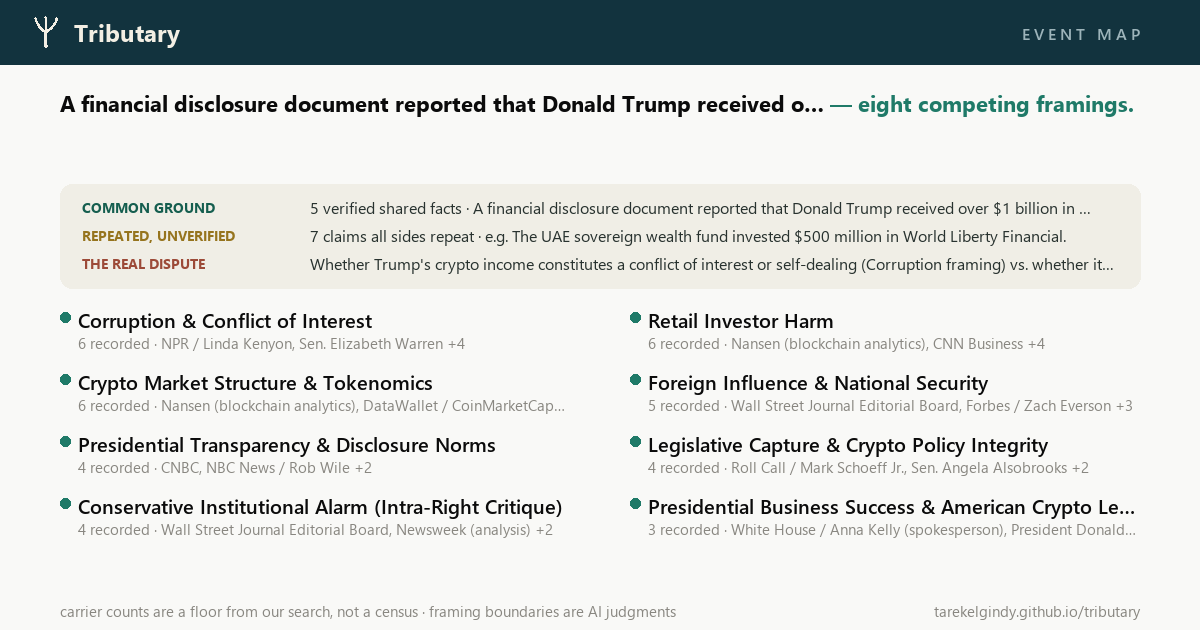
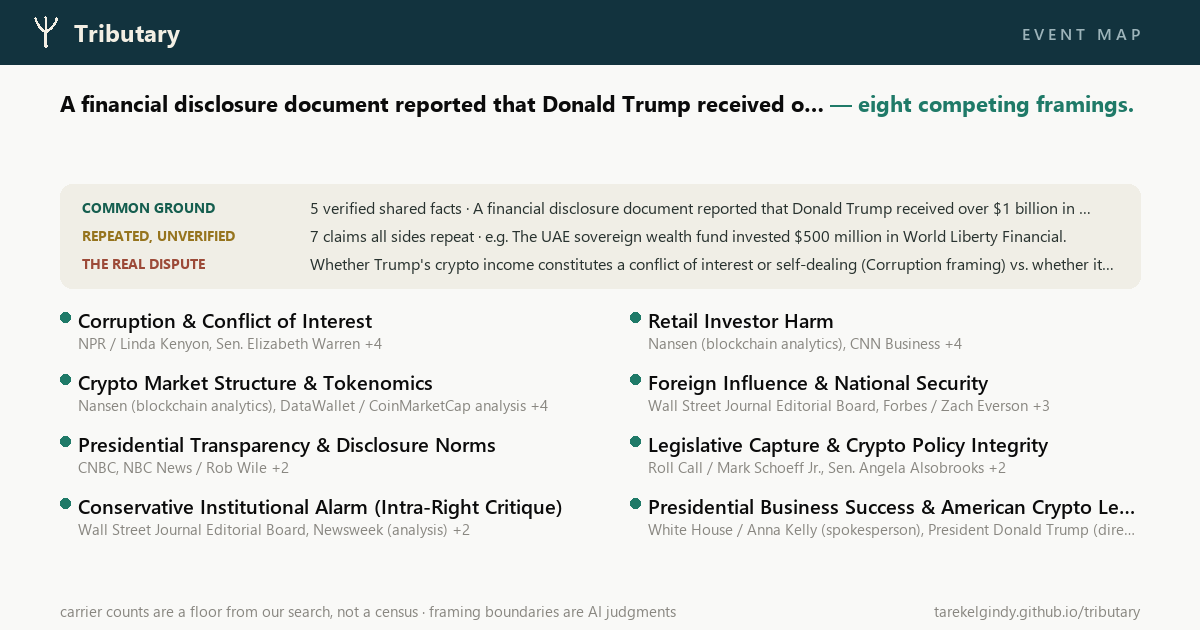
Drop "N recorded" from event surfaces; the count was the search cap echoing
Lean event runs cap carriers per framing, so the count read identically
across framings - the sample budget, not information. Carrier names
with their honest "+N" tails remain, as does the floor-not-census
caveat in every footer. Trace-side "N recorded uses" is untouched
(dated spread over time is real evidence).

diff --git a/gallery/cards/e82aa88b3a7e.html b/gallery/cards/e82aa88b3a7e.html
@@ -70,57 +70,49 @@
 <div class="fcell">
       <div class="fname">Corruption &amp; Conflict of Interest</div>
       <div class="fq">Is a sitting president profiting from an industry he directly regulates an abuse of power?</div>
-      <div class="dots"><span class="dot"></span><span class="dot"></span><span class="dot"></span><span class="dot"></span><span class="dot"></span><span class="dot"></span>
-        <span class="fcount">6 recorded</span></div>
+      <div class="dots"><span class="dot"></span><span class="dot"></span><span class="dot"></span><span class="dot"></span><span class="dot"></span><span class="dot"></span></div>
       <div class="fcar">NPR / Linda Kenyon, Sen. Elizabeth Warren, Sen. Ruben Gallego +3</div>
     </div>
 <div class="fcell">
       <div class="fname">Retail Investor Harm</div>
       <div class="fq">Did ordinary Americans — including Trump supporters — lose money so that Trump could profit?</div>
-      <div class="dots"><span class="dot"></span><span class="dot"></span><span class="dot"></span><span class="dot"></span><span class="dot"></span><span class="dot"></span>
-        <span class="fcount">6 recorded</span></div>
+      <div class="dots"><span class="dot"></span><span class="dot"></span><span class="dot"></span><span class="dot"></span><span class="dot"></span><span class="dot"></span></div>
       <div class="fcar">Nansen (blockchain analytics), CNN Business, Newsweek +3</div>
     </div>
 <div class="fcell">
       <div class="fname">Crypto Market Structure &amp; Tokenomics</div>
       <div class="fq">What does the $TRUMP token's collapse reveal about the structural risks of presidential-branded meme coins and insider tokenomics?</div>
-      <div class="dots"><span class="dot"></span><span class="dot"></span><span class="dot"></span><span class="dot"></span><span class="dot"></span><span class="dot"></span>
-        <span class="fcount">6 recorded</span></div>
+      <div class="dots"><span class="dot"></span><span class="dot"></span><span class="dot"></span><span class="dot"></span><span class="dot"></span><span class="dot"></span></div>
       <div class="fcar">Nansen (blockchain analytics), DataWallet / CoinMarketCap analysis, BeInCrypto / Lockridge Okoth +3</div>
     </div>
 <div class="fcell">
       <div class="fname">Foreign Influence &amp; National Security</div>
       <div class="fq">Are foreign governments purchasing policy influence through Trump's crypto ventures?</div>
-      <div class="dots"><span class="dot"></span><span class="dot"></span><span class="dot"></span><span class="dot"></span><span class="dot"></span>
-        <span class="fcount">5 recorded</span></div>
+      <div class="dots"><span class="dot"></span><span class="dot"></span><span class="dot"></span><span class="dot"></span><span class="dot"></span></div>
       <div class="fcar">Wall Street Journal Editorial Board, Forbes / Zach Everson, CBS News +2</div>
     </div>
 <div class="fcell">
       <div class="fname">Presidential Transparency &amp; Disclosure Norms</div>
       <div class="fq">Does a 927-page filing represent unprecedented transparency or unprecedented complexity designed to obscure?</div>
-      <div class="dots"><span class="dot"></span><span class="dot"></span><span class="dot"></span><span class="dot"></span>
-        <span class="fcount">4 recorded</span></div>
+      <div class="dots"><span class="dot"></span><span class="dot"></span><span class="dot"></span><span class="dot"></span></div>
       <div class="fcar">CNBC, NBC News / Rob Wile, Trump Organization (spokesperson) +1</div>
     </div>
 <div class="fcell">
       <div class="fname">Legislative Capture &amp; Crypto Policy Integrity</div>
       <div class="fq">Can Congress write fair crypto legislation when the president personally profits from the industry being regulated?</div>
-      <div class="dots"><span class="dot"></span><span class="dot"></span><span class="dot"></span><span class="dot"></span>
-        <span class="fcount">4 recorded</span></div>
+      <div class="dots"><span class="dot"></span><span class="dot"></span><span class="dot"></span><span class="dot"></span></div>
       <div class="fcar">Roll Call / Mark Schoeff Jr., Sen. Angela Alsobrooks, Senate Banking Committee Democrats +1</div>
     </div>
 <div class="fcell">
       <div class="fname">Conservative Institutional Alarm (Intra-Right Critique)</div>
       <div class="fq">Is Trump's crypto self-enrichment a political liability that will cost Republicans — even if it is legal?</div>
-      <div class="dots"><span class="dot"></span><span class="dot"></span><span class="dot"></span><span class="dot"></span>
-        <span class="fcount">4 recorded</span></div>
+      <div class="dots"><span class="dot"></span><span class="dot"></span><span class="dot"></span><span class="dot"></span></div>
       <div class="fcar">Wall Street Journal Editorial Board, Newsweek (analysis), National Review +1</div>
     </div>
 <div class="fcell">
       <div class="fname">Presidential Business Success &amp; American Crypto Leadership</div>
       <div class="fq">Does Trump's crypto wealth prove that his pro-innovation policies are working for America?</div>
-      <div class="dots"><span class="dot"></span><span class="dot"></span><span class="dot"></span>
-        <span class="fcount">3 recorded</span></div>
+      <div class="dots"><span class="dot"></span><span class="dot"></span><span class="dot"></span></div>
       <div class="fcar">White House / Anna Kelly (spokesperson), President Donald Trump (direct statements), Trump Organization (spokesperson)</div>
     </div>
     </div>

diff --git a/gallery/cards/8e48743e23ca.html b/gallery/cards/8e48743e23ca.html
@@ -128,36 +128,31 @@
 <div class="fcell">
       <div class="fname">Public Health Emergency &amp; Consumer Safety</div>
       <div class="fq">How sick are people, what foods are dangerous, and what should the public do right now?</div>
-      <div class="dots"><span class="dot"></span><span class="dot"></span><span class="dot"></span>
-        <span class="fcount">3 recorded</span></div>
+      <div class="dots"><span class="dot"></span><span class="dot"></span><span class="dot"></span></div>
       <div class="fcar">CDC (Centers for Disease Control and Prevention), TODAY.com, CNN Health</div>
     </div>
 <div class="fcell">
       <div class="fname">Government Accountability &amp; Budget Cuts</div>
       <div class="fq">Did federal funding cuts and staffing reductions weaken the food safety system and slow the outbreak response?</div>
-      <div class="dots"><span class="dot"></span><span class="dot"></span><span class="dot"></span>
-        <span class="fcount">3 recorded</span></div>
+      <div class="dots"><span class="dot"></span><span class="dot"></span><span class="dot"></span></div>
       <div class="fcar">KFF Health News, CNBC, Consumer Reports Advocacy</div>
     </div>
 <div class="fcell">
       <div class="fname">Supply Chain &amp; Corporate Accountability</div>
       <div class="fq">How did a single large produce supplier and fast-food chain allow contaminated food to reach consumers across 27+ states?</div>
-      <div class="dots"><span class="dot"></span><span class="dot"></span><span class="dot"></span>
-        <span class="fcount">3 recorded</span></div>
+      <div class="dots"><span class="dot"></span><span class="dot"></span><span class="dot"></span></div>
       <div class="fcar">Civil Eats, CBS News Texas, FDA</div>
     </div>
 <div class="fcell">
       <div class="fname">RFK Jr. / MAHA Political Stress Test</div>
       <div class="fq">Does this outbreak validate or undermine RFK Jr.'s 'Make America Healthy Again' agenda and his management of HHS?</div>
-      <div class="dots"><span class="dot"></span><span class="dot"></span><span class="dot"></span>
-        <span class="fcount">3 recorded</span></div>
+      <div class="dots"><span class="dot"></span><span class="dot"></span><span class="dot"></span></div>
       <div class="fcar">CNBC, STAT News (Susan Mayne, former FDA CFSAN Director), The Hill</div>
     </div>
 <div class="fcell">
       <div class="fname">Imported Produce &amp; Cross-Border Food Safety</div>
       <div class="fq">Does the repeated linkage of Cyclospora outbreaks to Mexican-grown produce reveal a structural failure in import safety standards?</div>
-      <div class="dots"><span class="dot"></span><span class="dot"></span><span class="dot"></span>
-        <span class="fcount">3 recorded</span></div>
+      <div class="dots"><span class="dot"></span><span class="dot"></span><span class="dot"></span></div>
       <div class="fcar">FDA (Import Alert 24-23), CNBC, Tecnológico de Monterrey / TecScience</div>
     </div>
     </div>

diff --git a/gallery/cards/004920783e29.html b/gallery/cards/004920783e29.html
@@ -134,36 +134,31 @@
 <div class="fcell">
       <div class="fname">Artistic Free Speech / Censorship</div>
       <div class="fq">Was Macklemore's removal an act of censorship that chills artistic and political expression?</div>
-      <div class="dots"><span class="dot"></span><span class="dot"></span><span class="dot"></span>
-        <span class="fcount">3 recorded</span></div>
+      <div class="dots"><span class="dot"></span><span class="dot"></span><span class="dot"></span></div>
       <div class="fcar">The Nation, Finneas (Instagram), Rolling Stone</div>
     </div>
 <div class="fcell">
       <div class="fname">Antisemitism / Hate Speech Accountability</div>
       <div class="fq">Did Macklemore's speech and history constitute antisemitic hate speech that venues were right to refuse to platform?</div>
-      <div class="dots"><span class="dot"></span><span class="dot"></span><span class="dot"></span>
-        <span class="fcount">3 recorded</span></div>
+      <div class="dots"><span class="dot"></span><span class="dot"></span><span class="dot"></span></div>
       <div class="fcar">Robert Kraft / Gillette Stadium, Anti-Defamation League (Jonathan Greenblatt), Fox News / OutKick</div>
     </div>
 <div class="fcell">
       <div class="fname">Billionaire Power / Elite Capture of Public Space</div>
       <div class="fq">Does this episode reveal how ultra-wealthy individuals can unilaterally control what speech is permitted in quasi-public venues?</div>
-      <div class="dots"><span class="dot"></span><span class="dot"></span><span class="dot"></span>
-        <span class="fcount">3 recorded</span></div>
+      <div class="dots"><span class="dot"></span><span class="dot"></span><span class="dot"></span></div>
       <div class="fcar">Boston Globe, Rolling Stone, WBUR News</div>
     </div>
 <div class="fcell">
       <div class="fname">Artist Solidarity / Moral Witness</div>
       <div class="fq">Did the artists who quit the tour in solidarity demonstrate a model of collective moral courage in the music industry?</div>
-      <div class="dots"><span class="dot"></span><span class="dot"></span><span class="dot"></span>
-        <span class="fcount">3 recorded</span></div>
+      <div class="dots"><span class="dot"></span><span class="dot"></span><span class="dot"></span></div>
       <div class="fcar">Al Jazeera, NPR, Lukas Graham (Instagram)</div>
     </div>
 <div class="fcell">
       <div class="fname">Ed Sheeran's Apolitical Stance / Celebrity Neutrality Debate</div>
       <div class="fq">Is Ed Sheeran's refusal to take political sides a defensible position for a global superstar, or a form of complicity?</div>
-      <div class="dots"><span class="dot"></span><span class="dot"></span><span class="dot"></span>
-        <span class="fcount">3 recorded</span></div>
+      <div class="dots"><span class="dot"></span><span class="dot"></span><span class="dot"></span></div>
       <div class="fcar">Good Morning America / ABC News, Slate, Billboard</div>
     </div>
     </div>

diff --git a/index.html b/index.html
@@ -722,19 +722,19 @@
                 <div class="fangrid">
                     <div class="fcell">
                         <div class="fname">Public Health Emergency &amp; Consumer Safety</div>
-                        <div class="fcar">3 recorded · CDC, TODAY.com, CNN Health</div>
+                        <div class="fcar">CDC, TODAY.com, CNN Health</div>
                     </div>
                     <div class="fcell">
                         <div class="fname">Supply Chain &amp; Corporate Accountability</div>
-                        <div class="fcar">3 recorded · Civil Eats, CBS News Texas, FDA</div>
+                        <div class="fcar">Civil Eats, CBS News Texas, FDA</div>
                     </div>
                     <div class="fcell">
                         <div class="fname">Government Accountability &amp; Budget Cuts</div>
-                        <div class="fcar">3 recorded · KFF Health News, CNBC, Consumer Reports</div>
+                        <div class="fcar">KFF Health News, CNBC, Consumer Reports</div>
                     </div>
                     <div class="fcell">
                         <div class="fname">Imported Produce &amp; Cross-Border Food Safety</div>
-                        <div class="fcar">3 recorded · FDA (Import Alert 24-23), CNBC +1</div>
+                        <div class="fcar">FDA (Import Alert 24-23), CNBC +1</div>
                     </div>
                 </div>
                 <div class="foot">

diff --git a/cards.py b/cards.py
@@ -1490,7 +1490,7 @@ def render_event_png(cd, out_path):
             names = ", ".join(c["names"][:2]) + \
                 (f' +{len(c["names"]) - 2}' if len(c["names"]) > 2 else "")
             d.text((x + 18, y + 26),
-                   _ellipsize(d, f'{c["n"]} recorded · {names}', f_car, col_w - 18),
+                   _ellipsize(d, names, f_car, col_w - 18),
                    font=f_car, fill=INK3)
         if cd["n_hidden"]:
             d.text((ML, top + 4 * 62 + 2), f'+ {cd["n_hidden"]} more framings '
@@ -1607,8 +1607,7 @@ def render_event_page(cd, out_path):
         f'''<div class="fcell">
       <div class="fname">{esc(c["name"])}</div>
       <div class="fq">{esc(c["question"])}</div>
-      <div class="dots">{'<span class="dot"></span>' * min(c["n"], 10)}
-        <span class="fcount">{c["n"]} recorded</span></div>
+      <div class="dots">{'<span class="dot"></span>' * min(c["n"], 10)}</div>
       <div class="fcar">{esc(", ".join(c["names"][:3]) + (f' +{len(c["names"]) - 3}' if len(c["names"]) > 3 else ""))}</div>
     </div>''' for c in cd["cells"])
 
